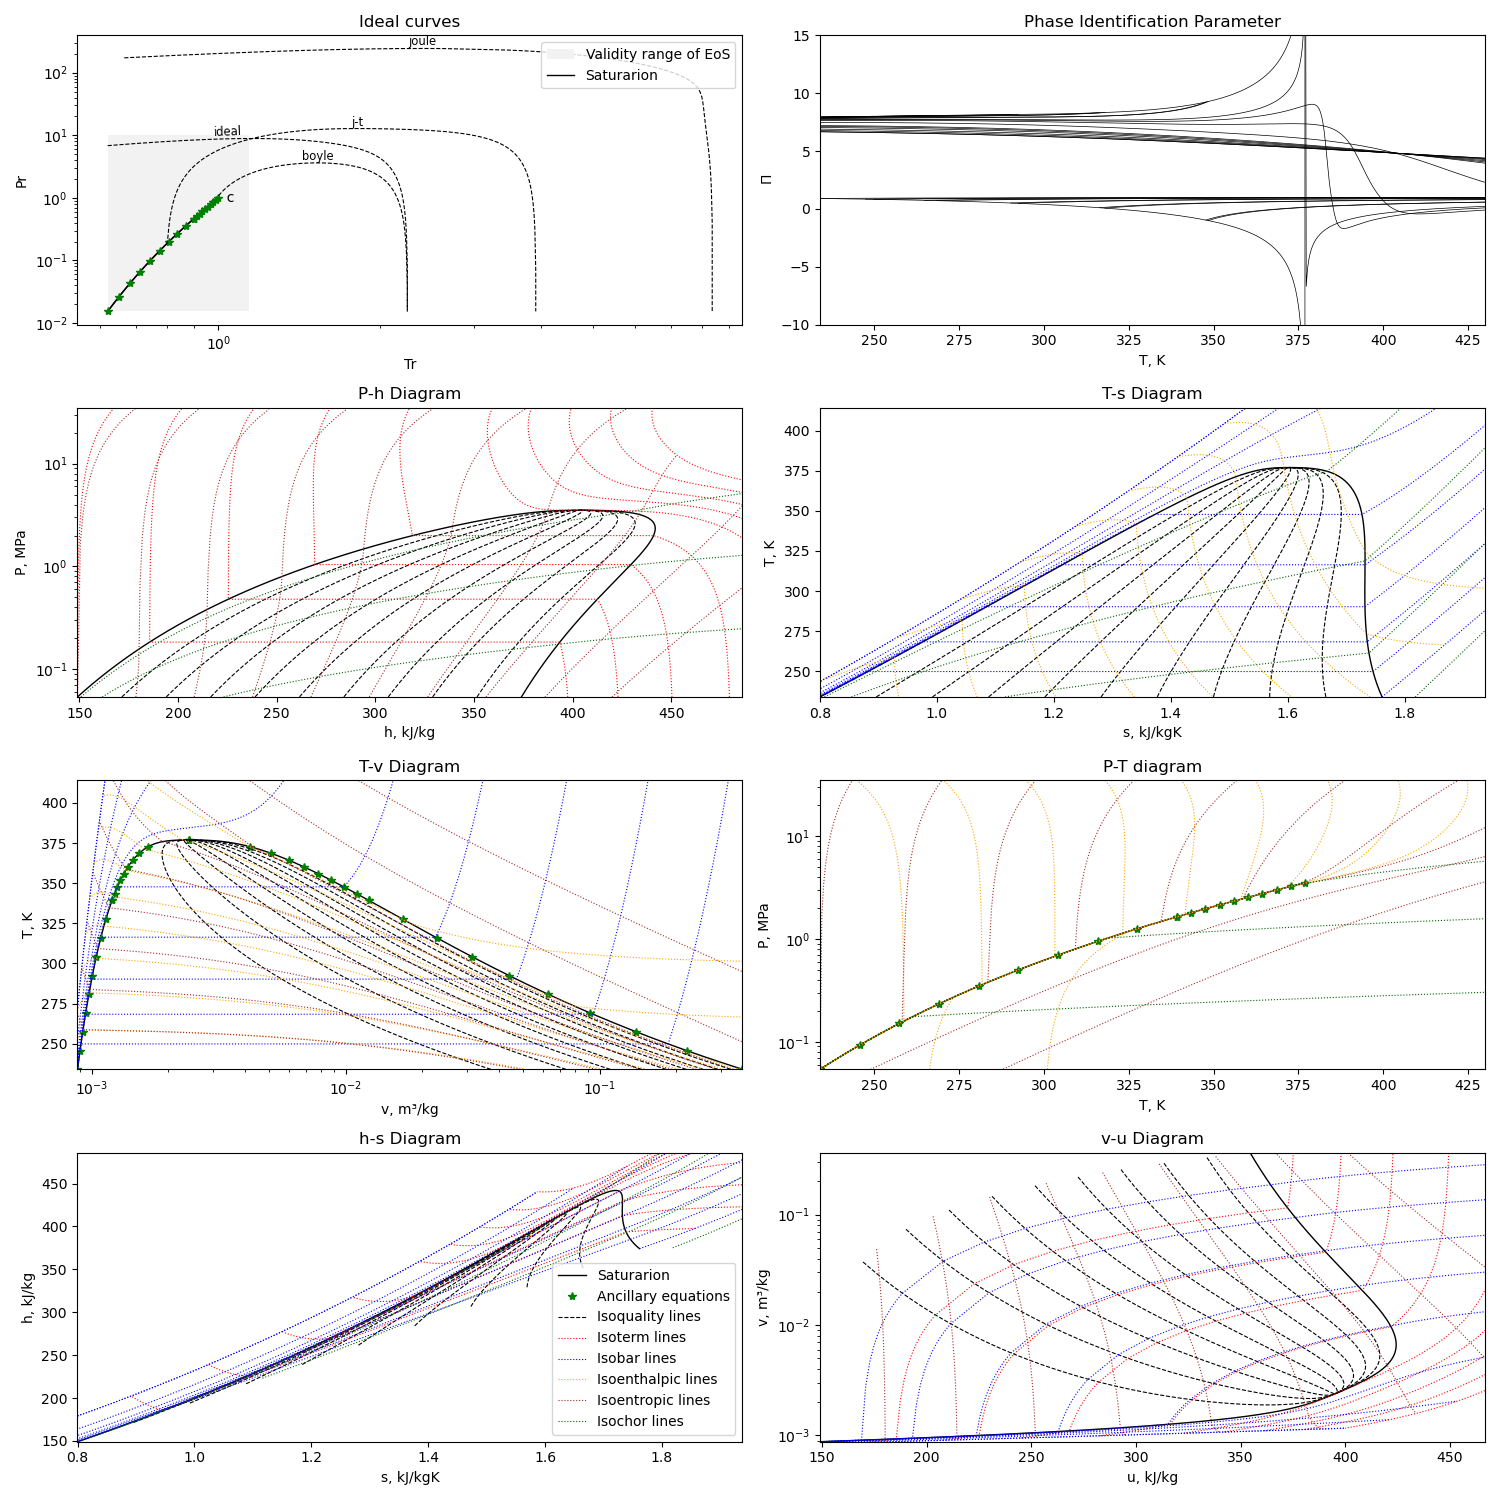
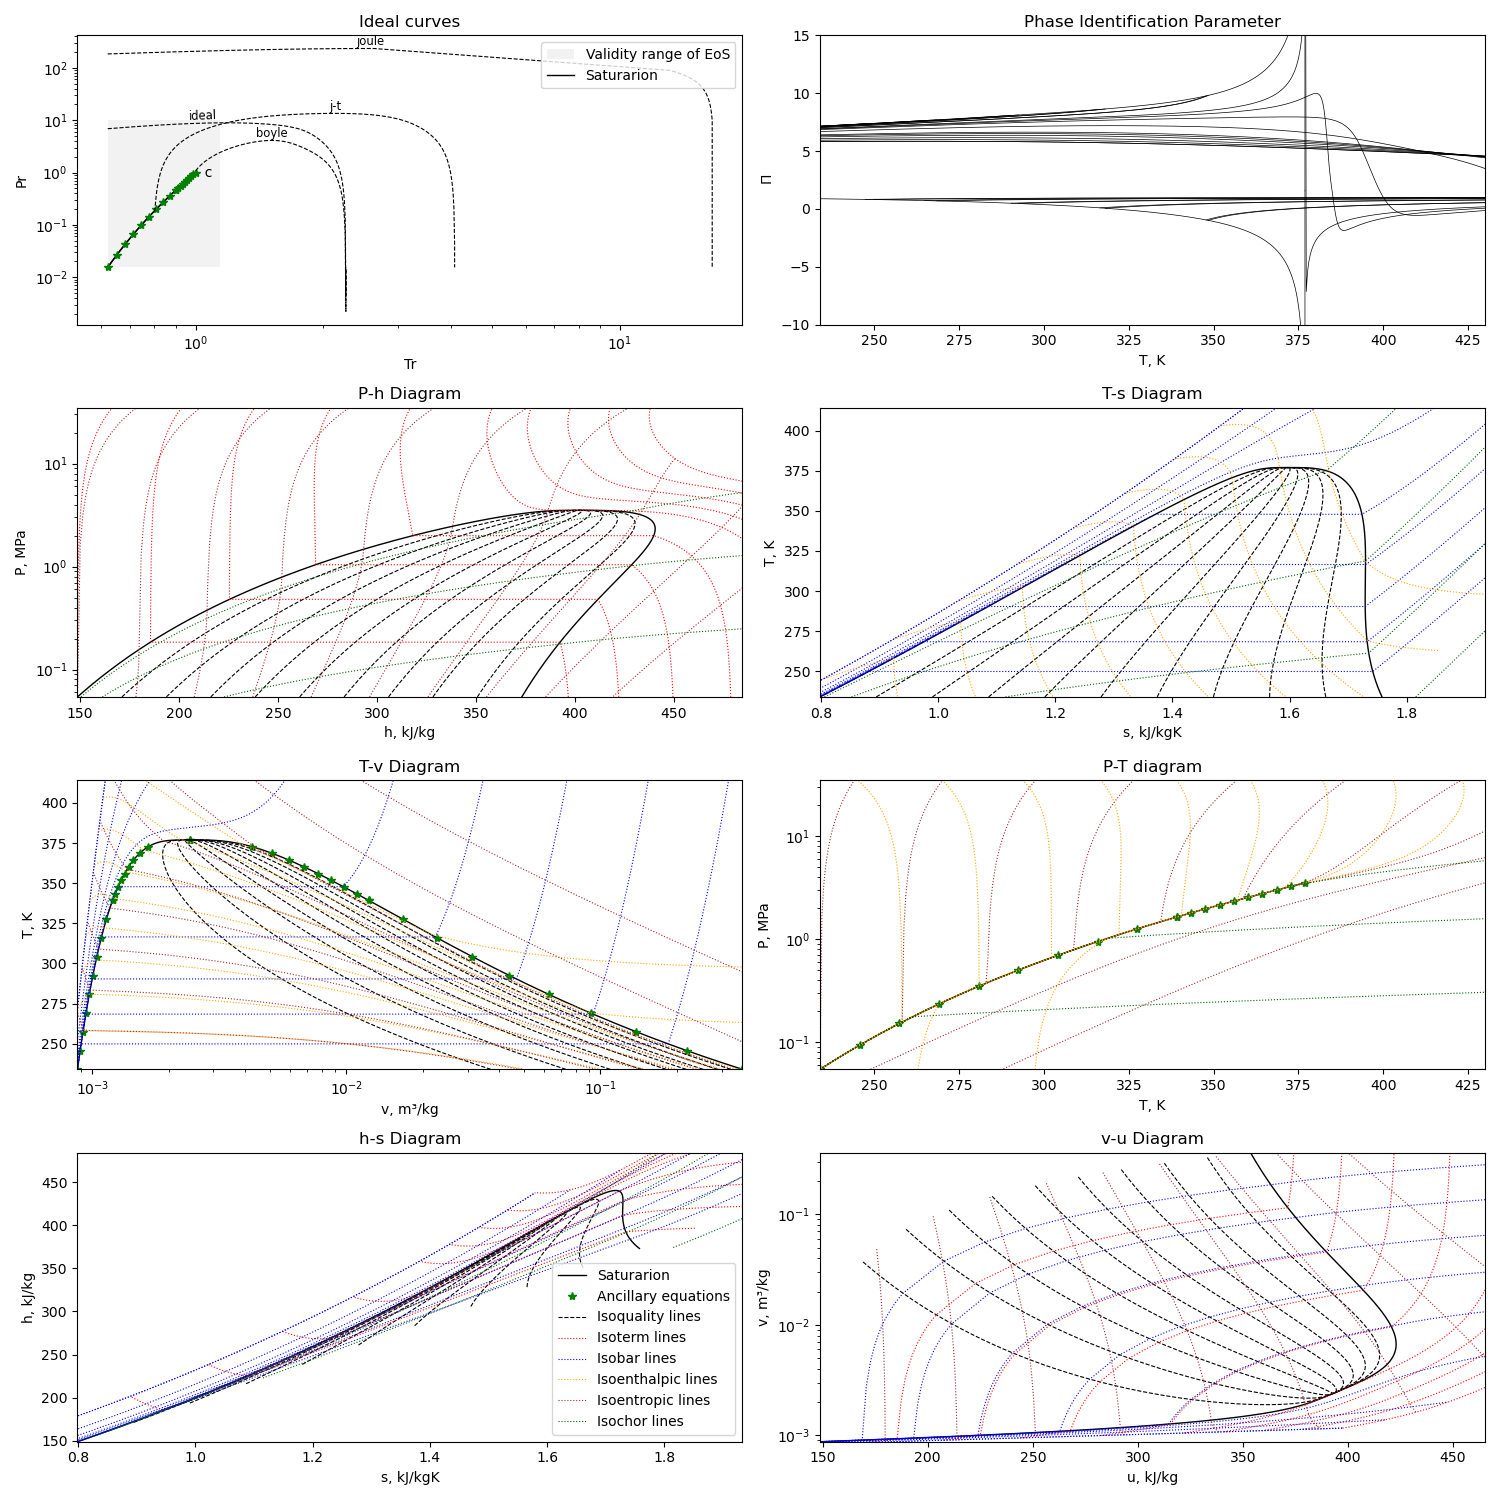
Add Akasaka mEoS for R1243zf from 2025 paper

diff --git a/lib/mEoS/R1243zf.py b/lib/mEoS/R1243zf.py
@@ -33,14 +33,18 @@ class R1243zf(MEoS):
     synonym = "R-1243zf"
     rhoc = unidades.Density(413.019859)
     Tc = unidades.Temperature(376.93)
-    Pc = unidades.Pressure(3517.9, "kPa")
+    Pc = unidades.Pressure(3513.7, "kPa")
     M = 96.05113  # g/mol
-    Tt = unidades.Temperature(0)
-    Tb = unidades.Temperature(247.726)
-    f_acent = 0.26
+    Tt = unidades.Temperature(122.35)
+    Tb = unidades.Temperature(247.666)
+    f_acent = 0.2595
     momentoDipolar = unidades.DipoleMoment(0, "Debye")
 
     Fi1 = {"ao_log": [1, 3],
+           "pow": [0, 1], "ao_pow": [-12.2722866918, 8.2858157407],
+           "ao_exp": [13.285, 7.67], "titao": [877.6/Tc, 3562.5/Tc]}
+
+    Fi2 = {"ao_log": [1, 3],
            "pow": [0, 1], "ao_pow": [-12.06546081, 8.207216743],
            "ao_exp": [11.247, 8.1391], "titao": [789/Tc, 2196/Tc]}
 
@@ -53,6 +57,41 @@ class R1243zf(MEoS):
     akasaka = {
         "__type__": "Helmholtz",
         "__name__": "Helmholtz equation of state for R1243zf of Akasaka "
+                    "(2025)",
+        "__doi__": {"autor": "Akasaka, R., Lemmon, E.W.",
+                    "title": "A Helmholtz Energy Equation of State for "
+                             "3,3,3‐Trifluoroprop‐1‐ene (R‐1243zf)",
+                    "ref": "Int. J. Thermophysics 46 (2025) 23",
+                    "doi": "10.1007/s10765-024-03481-6"},
+
+        "R": 8.314462618,
+        "cp": Fi1,
+        "ref": "IIR",
+
+        "Tmin": 234, "Tmax": 430, "Pmax": 35000.0,
+
+        "nr1": [0.02626021, 0.701348, -0.6180002748076, 0.1916400159007,
+                0.0762, -0.795],
+        "d1": [4, 1, 1, 2, 3, 2],
+        "t1": [1, 0.12425, 1.0096, 0.271875, 0.405, 1.07288],
+
+        "nr2": [-0.8537, -0.3531, -0.07971, -0.05411, -0.0424],
+        "d2": [1, 1, 1, 2, 3],
+        "t2": [1.45525, 2.105, 6.07, 5.794375, 4.094],
+        "c2": [1, 2, 3, 3, 3],
+        "gamma2": [1, 1, 1, 0.66, 0.33],
+
+        "nr3": [-0.06774, -0.01032, -0.1184, -0.1135],
+        "d3": [1, 2, 1, 1],
+        "t3": [1.029, 1.65, 1.62, 1.653125],
+        "alfa3": [0.78, 2.796, 1.643, 3.03],
+        "beta3": [0, 0, 1.86, 2.03],
+        "gamma3": [1, 1, 0.80625, 1.16],
+        "epsilon3": [1.09375, 1.0392, -0.3076, -0.426]}
+
+    akasaka2019 = {
+        "__type__": "Helmholtz",
+        "__name__": "Helmholtz equation of state for R1243zf of Akasaka "
                     "(2019)",
         "__doi__": {"autor": "Akasaka, R., Lemmon, E.W.",
                     "title": "Fundamental Equations of State for cis-1,3,3,3-"
@@ -62,8 +101,9 @@ class R1243zf(MEoS):
                     "doi": "10.1021/acs.jced.9b00007"},
 
         "R": 8.3144598,
-        "cp": Fi1,
+        "cp": Fi2,
         "ref": "IIR",
+        "Pc": 3517.9,
 
         "Tmin": 234, "Tmax": 430, "Pmax": 35000.0,
 
@@ -103,7 +143,7 @@ class R1243zf(MEoS):
         "ref": "IIR",
 
         "Tmin": 234, "Tmax": 376, "Pmax": 35000.0,
-        "rhoc": 4.313,
+        "rhoc": 4.313, "Pc": 3517.9,
 
         "nr1": [7.778443271, -8.690330704, -0.2796711221, 0.1454690442,
                 0.008976776111],
@@ -118,7 +158,7 @@ class R1243zf(MEoS):
         "c2": [1, 1, 1, 1, 2, 2, 2, 2, 2, 3, 3, 3],
         "gamma2": [1]*12}
 
-    eq = akasaka, akasaka2016
+    eq = akasaka, akasaka2019, akasaka2016
 
     _surface = {
         "__doi__": {
@@ -131,16 +171,16 @@ class R1243zf(MEoS):
 
     _vapor_Pressure = {
         "eq": 3,
-        "n": [-7.3009, 1.5186, -2.5303, -1.5139],
-        "t": [1, 1.5, 2.8, 5]}
+        "n": [-7.2325, 1.3165, -0.8189, -3.5606, -3.4861],
+        "t": [1, 1.5, 2.32, 4.07, 15.4]}
     _liquid_Density = {
         "eq": 1,
-        "n": [2.3870, -1.2213, 4.8105, -5.7706, 2.6755],
-        "t": [0.362, 0.83, 1.31, 1.82, 2.4]}
+        "n": [1.2627, 2.6023, -2.4034, 1.6370, 0.29192],
+        "t": [0.258, 0.82, 1.43, 2.11, 8.4]}
     _vapor_Density = {
         "eq": 2,
-        "n": [-2.9588, -7.1173, -21.945, -54.068, -128.95],
-        "t": [0.385, 1.25, 3.4, 7.25, 16]}
+        "n": [-1.6776, -6.5573, -14.195, -33.488, -49.802, -127.65],
+        "t": [0.28, 0.96, 2.78, 5.38, 9.36, 16.6]}
 
     trnECS = {"__name__": "Huber (2018)",
 
@@ -175,38 +215,76 @@ class Test(TestCase):
     """Test class"""
 
     def test_akasaka(self):
+        """Table 6, pag 23"""
+        st = R1243zf(T=280, rhom=0)
+        self.assertEqual(round(st.P.MPa, 6), 0)
+        self.assertEqual(round(st.cvM.JmolK, 4), 76.6072)
+        self.assertEqual(round(st.cpM.JmolK, 4), 84.9217)
+        self.assertEqual(round(st.w, 3), 163.915)
+
+        st = R1243zf(T=280, rhom=11)
+        self.assertEqual(round(st.P.MPa, 6), 7.393335)
+        self.assertEqual(round(st.cvM.JmolK, 4), 90.7467)
+        self.assertEqual(round(st.cpM.JmolK, 3), 130.734)
+        self.assertEqual(round(st.w, 3), 648.467)
+
+        st = R1243zf(T=280, rhom=0.1)
+        self.assertEqual(round(st.P.MPa, 7), 0.2177605)
+        self.assertEqual(round(st.cvM.JmolK, 4), 79.7211)
+        self.assertEqual(round(st.cpM.JmolK, 4), 91.2493)
+        self.assertEqual(round(st.w, 3), 155.465)
+
+        st = R1243zf(T=360, rhom=8)
+        self.assertEqual(round(st.P.MPa, 6), 3.992633)
+        self.assertEqual(round(st.cvM.JmolK, 3), 106.367)
+        self.assertEqual(round(st.cpM.JmolK, 3), 184.593)
+        self.assertEqual(round(st.w, 3), 269.396)
+
+        st = R1243zf(T=360, rhom=1)
+        self.assertEqual(round(st.P.MPa, 6), 2.054891)
+        self.assertEqual(round(st.cvM.JmolK, 3), 103.218)
+        self.assertEqual(round(st.cpM.JmolK, 3), 146.368)
+        self.assertEqual(round(st.w, 3), 135.631)
+
+        st = R1243zf(T=378, rhom=4)
+        self.assertEqual(round(st.P.MPa, 6), 3.582568)
+        self.assertEqual(round(st.cvM.JmolK, 3), 120.166)
+        self.assertEqual(round(st.cpM.JmolK, 2), 6522.37)
+        self.assertEqual(round(st.w, 4), 93.0173)
+
+    def test_akasaka2019(self):
         """Table 6, pag 4690"""
-        st = R1243zf(T=250, rhom=0)
+        st = R1243zf(T=250, rhom=0, eq=1)
         self.assertEqual(round(st.P.MPa, 6), 0)
         self.assertEqual(round(st.cvM.kJmolK, 7), 0.0690267)
         self.assertEqual(round(st.cpM.kJmolK, 7), 0.0773412)
         self.assertEqual(round(st.w, 3), 155.716)
 
-        st = R1243zf(T=250, rhom=12)
+        st = R1243zf(T=250, rhom=12, eq=1)
         self.assertEqual(round(st.P.MPa, 5), 21.70009)
         self.assertEqual(round(st.cvM.kJmolK, 7), 0.0862865)
         self.assertEqual(round(st.cpM.kJmolK, 7), 0.1181422)
         self.assertEqual(round(st.w, 3), 852.712)
 
-        st = R1243zf(T=250, rhom=0.05)
+        st = R1243zf(T=250, rhom=0.05, eq=1)
         self.assertEqual(round(st.P.MPa, 8), 0.09953467)
         self.assertEqual(round(st.cvM.kJmolK, 7), 0.0707756)
         self.assertEqual(round(st.cpM.kJmolK, 7), 0.0811839)
         self.assertEqual(round(st.w, 3), 150.725)
 
-        st = R1243zf(T=350, rhom=9)
+        st = R1243zf(T=350, rhom=9, eq=1)
         self.assertEqual(round(st.P.MPa, 6), 7.656805)
         self.assertEqual(round(st.cvM.kJmolK, 6), 0.105027)
         self.assertEqual(round(st.cpM.kJmolK, 6), 0.157970)
         self.assertEqual(round(st.w, 3), 392.414)
 
-        st = R1243zf(T=350, rhom=1)
+        st = R1243zf(T=350, rhom=1, eq=1)
         self.assertEqual(round(st.P.MPa, 6), 1.939182)
         self.assertEqual(round(st.cvM.kJmolK, 6), 0.105867)
         self.assertEqual(round(st.cpM.kJmolK, 6), 0.158364)
         self.assertEqual(round(st.w, 3), 129.425)
 
-        st = R1243zf(T=377, rhom=4.3)
+        st = R1243zf(T=377, rhom=4.3, eq=1)
         self.assertEqual(round(st.P.MPa, 6), 3.522701)
         self.assertEqual(round(st.cvM.kJmolK, 6), 0.129027)
         self.assertEqual(round(st.cpM.kJmolK, 4), 89.7236)
@@ -214,25 +292,25 @@ class Test(TestCase):
 
     def test_akasaka2016(self):
         """Table 4, pag 1143"""
-        st = R1243zf(T=250, rhom=12, eq=1)
+        st = R1243zf(T=250, rhom=12, eq=2)
         self.assertEqual(round(st.P.MPa, 5), 20.79095)
         self.assertEqual(round(st.cvM.JmolK, 4), 81.4603)
         self.assertEqual(round(st.cpM.JmolK, 3), 114.052)
         self.assertEqual(round(st.w, 3), 848.109)
 
-        st = R1243zf(T=250, rhom=0, eq=1)
+        st = R1243zf(T=250, rhom=0, eq=2)
         self.assertEqual(round(st.P.MPa, 6), 0.0)
         self.assertEqual(round(st.cvM.JmolK, 4), 68.2399)
         self.assertEqual(round(st.cpM.JmolK, 4), 76.5544)
         self.assertEqual(round(st.w, 3), 155.812)
 
-        st = R1243zf(T=350, rhom=9, eq=1)
+        st = R1243zf(T=350, rhom=9, eq=2)
         self.assertEqual(round(st.P.MPa, 6), 7.690727)
         self.assertEqual(round(st.cvM.JmolK, 3), 103.673)
         self.assertEqual(round(st.cpM.JmolK, 3), 153.996)
         self.assertEqual(round(st.w, 3), 390.988)
 
-        st = R1243zf(T=350, rhom=1, eq=1)
+        st = R1243zf(T=350, rhom=1, eq=2)
         self.assertEqual(round(st.P.MPa, 6), 1.938399)
         self.assertEqual(round(st.cvM.JmolK, 3), 104.900)
         self.assertEqual(round(st.cpM.JmolK, 3), 161.146)
@@ -240,6 +318,6 @@ class Test(TestCase):
 
     def test_Huber(self):
         """Table 7, pag 266"""
-        st = R1243zf(T=339.2, rhom=8.901)
+        st = R1243zf(T=339.2, rhom=8.901, eq=1)
         self.assertEqual(round(st.mu.muPas, 4), 103.5662)
         self.assertEqual(round(st.k.mWmK, 4), 59.9259)